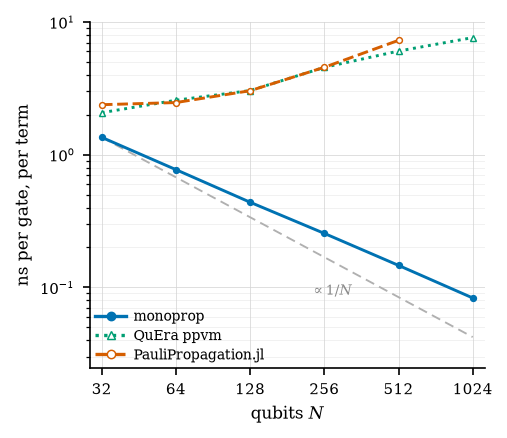
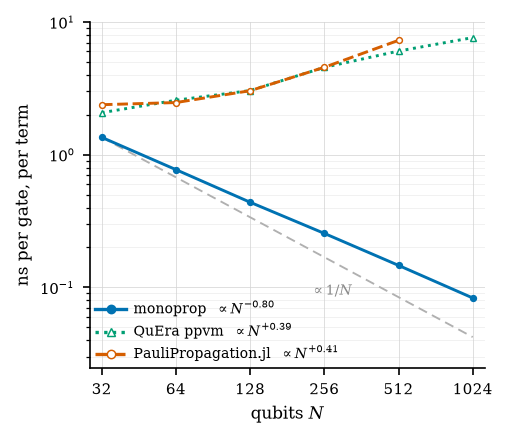
stuff

Changed region(s): [[0.1775, 0.6826, 0.5917, 0.8311], [0.5621, 0.7717, 0.6805, 0.8311]]

diff --git a/paper_plots/make_inverse_scaling_figure.py b/paper_plots/make_inverse_scaling_figure.py
@@ -133,12 +133,9 @@ LAYOUTS = {
             "ytick.labelsize": 7.0,
             "legend.fontsize": 6.8,
         },
-        # Below the axes, frameless and stacked: at column width every in-axes corner is
-        # either on a curve or on the 1/N guide, and a box over monoprop's tail would hide
-        # the part of the curve the figure is about. Stacked rather than on one line
-        # because three entries carrying an exponent each need roughly twice 3.4in.
-        # Inside the axes, lower left: with the exponents off the labels the entries are
-        # short, and that corner holds nothing but the tail of the 1/N guide.
+        # Inside the axes, lower left, frameless and stacked: that corner holds nothing but
+        # the tail of the 1/N guide, and stacking keeps the exponent-carrying entries
+        # inside 3.4in.
         "legend": {"loc": "lower left", "ncol": 1, "labelspacing": 0.35},
         "bottom_pad": 3.4,
     },
@@ -492,9 +489,8 @@ def fig6(lattice, outdir: Path, layout: str = "column"):
         fig, ax = plt.subplots(figsize=spec["figsize"])
 
         # Every point drawn solid, as one curve per engine. The N <= FIT_NMAX fit window
-        # still sets the exponents that the caption and stdout report, but it is no longer
-        # drawn: the panel carries no exponents, so there is nothing on it for a fade or a
-        # clip to qualify.
+        # sets the exponents the legend, the caption and stdout report; the window itself is
+        # not drawn.
         fits = _fits(lattice, fit_all=FIT_ALL_POINTS)
         for fam in ORDER:
             ax.plot(fits[fam][0], fits[fam][1], **_style(fam))
@@ -533,13 +529,12 @@ def fig6(lattice, outdir: Path, layout: str = "column"):
                 [],
                 [],
                 **{**_style(fam), "ms": MARKER_SIZE, "lw": LINE_WIDTH + 0.2},
-                label=ENGINE_LABEL[fam],
+                label=f"{ENGINE_LABEL[fam]}  $\\propto N^{{{fits[fam][2]:+.2f}}}$",
             )
             for fam in ORDER
         ]
-        # Names only, no exponents and no title: the panel identifies the curves and
-        # nothing else. Every fitted number lives in fig6_caption.txt and in the build's
-        # stdout, which are now the ONLY record of them.
+        # Each engine's headline exponent beside its name, from the same fits the caption
+        # and stdout report, so the numbers on the panel cannot drift from them.
         ax.legend(
             handles=handles,
             frameon=False,
@@ -801,9 +796,7 @@ def _window_section(fits, lattice):
     return (
         "\n"
         + _para(
-            f"The fit window. Every exponent above is {fitted}.{stop_note} Nothing on the "
-            "canvas says even that much -- the legend carries engine names only -- so this "
-            "caption is the record."
+            f"The fit window. Every exponent above, and in the legend, is {fitted}.{stop_note}"
         )
         + "\n\n"
         + _para(
